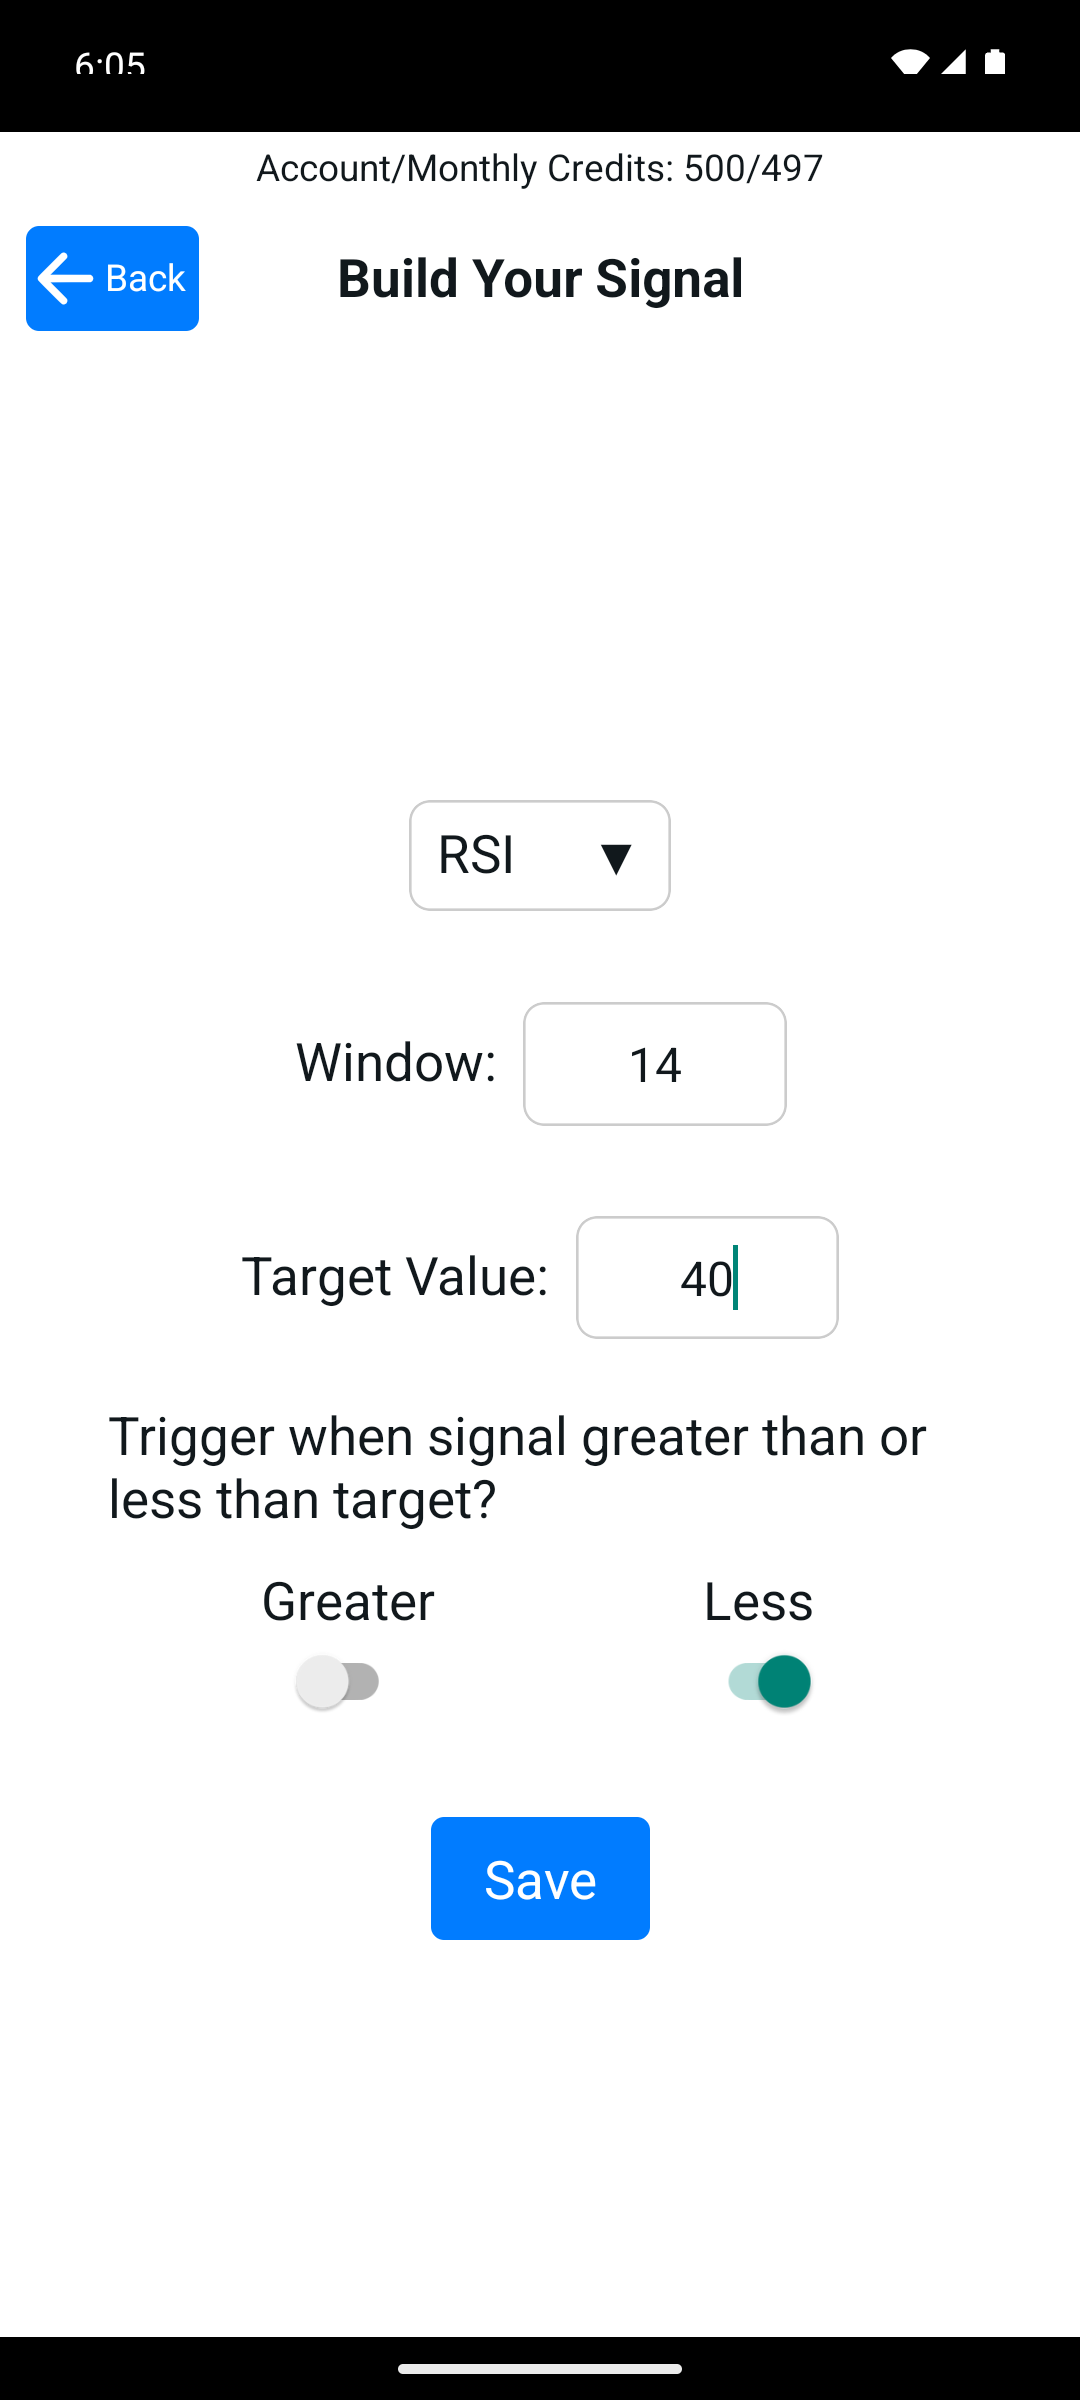
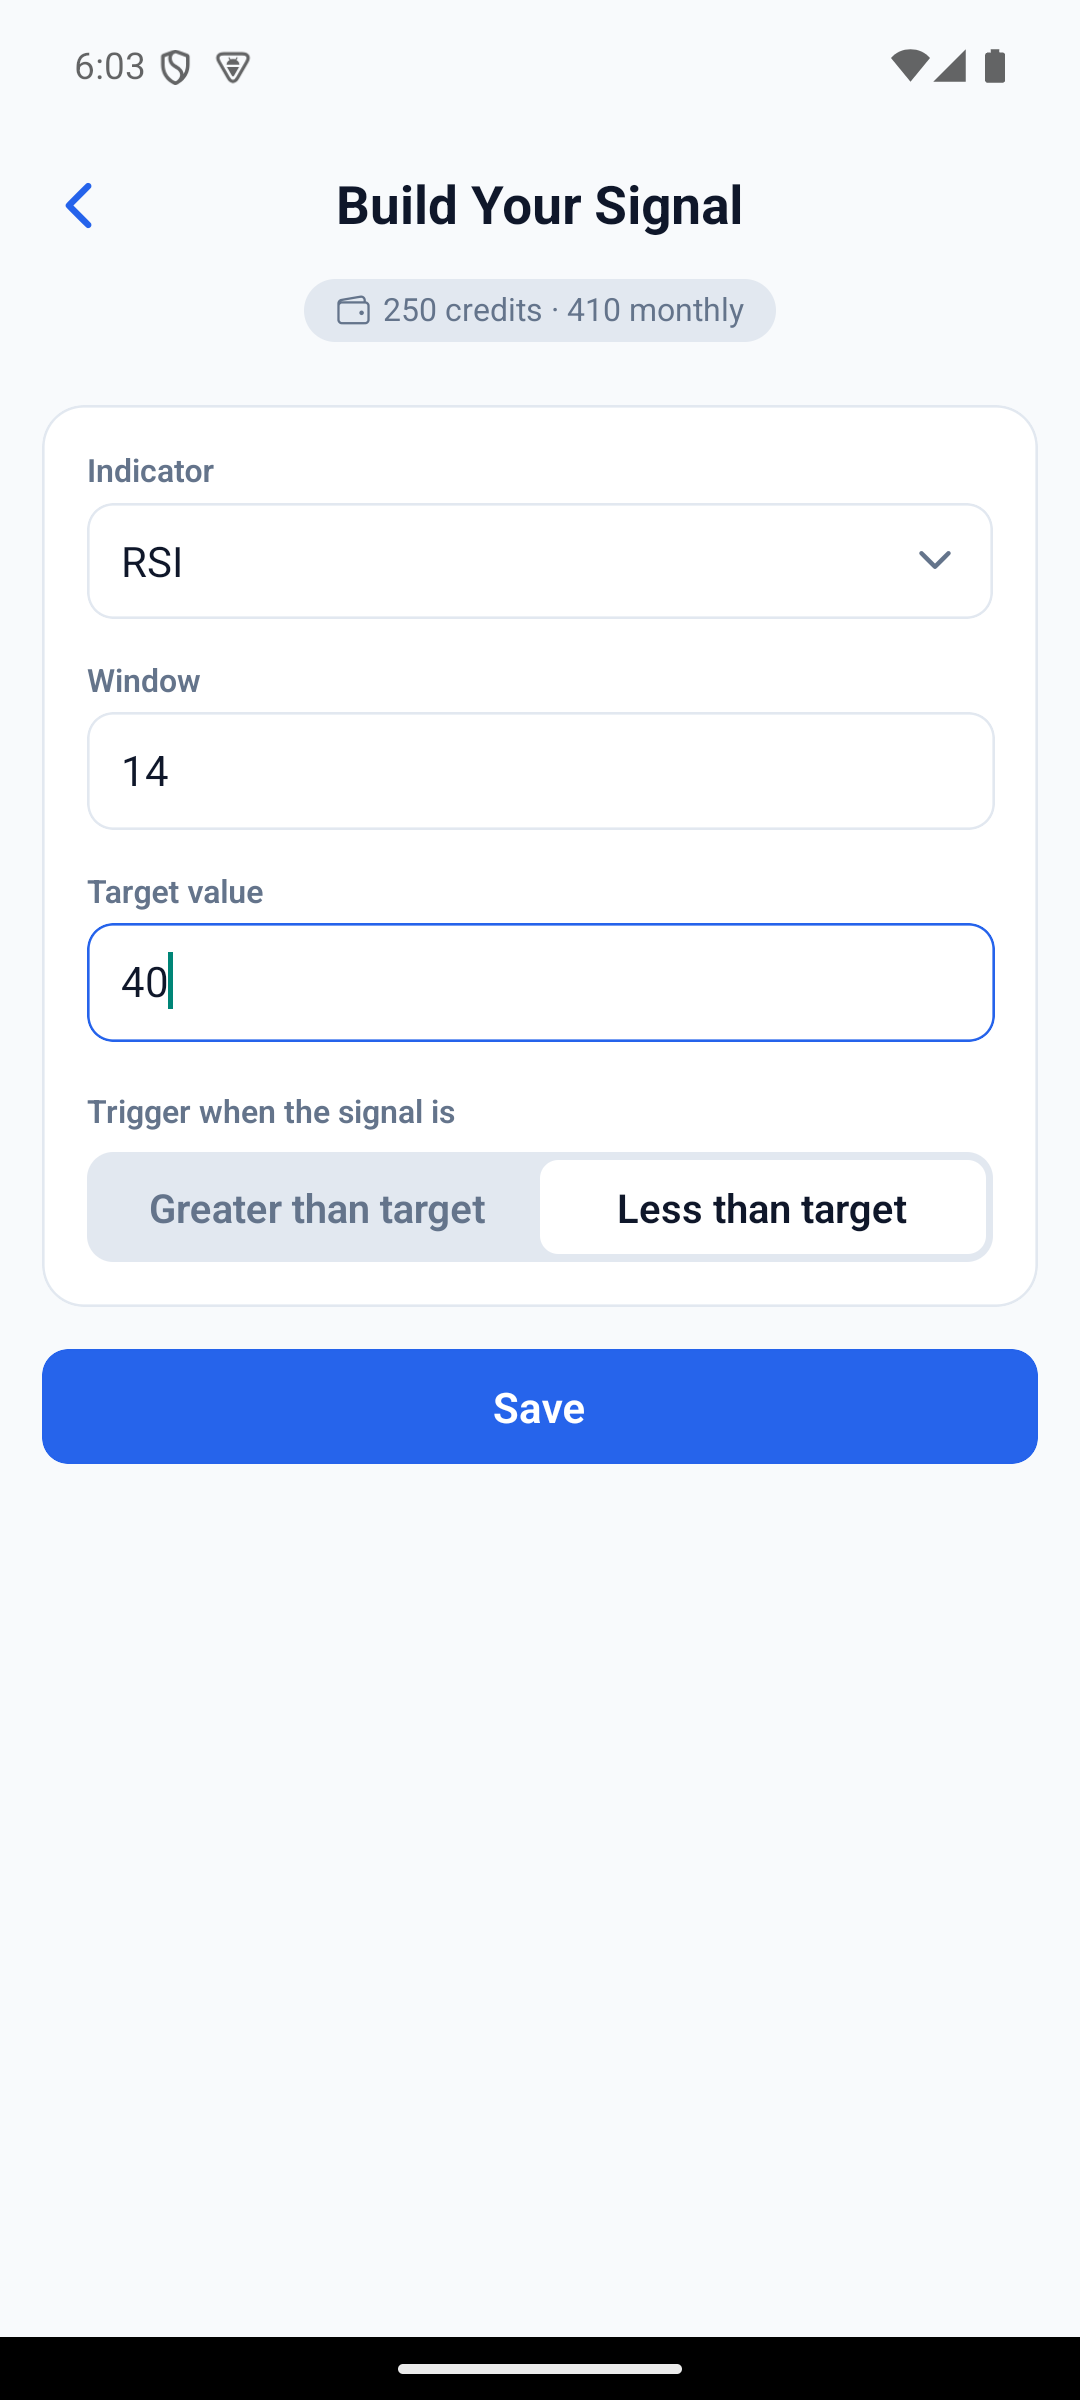
Update README screenshots and notes for the new UI
Retake all five screenshots on the Android emulator against a local backend
with a demo account and real historical prices, and update the alt text. Add
a note on the shared theme and components.

diff --git a/README.md b/README.md
@@ -2,7 +2,7 @@
 
 Mobile app for building simple technical-indicator trading strategies, back-testing them on historical price data, and subscribing to a strategy so you get a push notification when it signals a trade. Built with Expo / React Native; the API lives in [AlgoTrackerBackend](https://github.com/bsav0016/AlgoTrackerBackend).
 
-<p><img src="docs/screenshots/home.png" alt="Home screen: credits, shortcuts and the list of subscribed strategies with position and return" width="24%"> <img src="docs/screenshots/strategy-builder.png" alt="Building a strategy: symbol, candle interval, buy and sell signals and a date range" width="24%"> <img src="docs/screenshots/backtest-results.png" alt="Backtest results: price chart with buy and sell markers, and return, Sharpe and Sortino ratios" width="24%"> <img src="docs/screenshots/strategy-detail.png" alt="A subscribed strategy: strategy return against asset return, and its trades" width="24%"></p>
+<p><img src="docs/screenshots/home.png" alt="Home screen: credits, backtest and subscribe actions, and a card per subscribed strategy with its position and return" width="24%"> <img src="docs/screenshots/strategy-builder.png" alt="Building a strategy: symbol, candle interval, buy and sell signals, a date range and the cost of running it" width="24%"> <img src="docs/screenshots/backtest-results.png" alt="Backtest results: price chart with buy and sell markers, and return, Sharpe and Sortino ratios" width="24%"> <img src="docs/screenshots/strategy-detail.png" alt="A subscribed strategy: strategy return against asset return, next charge date and its trades" width="24%"></p>
 
 *Screenshots are from the Android build running against a local copy of the backend with a demo account and real historical prices. The positions, returns and trades on the home and strategy screens are each strategy's one-year backtest result, not live signals. More in [docs/screenshots](docs/screenshots) (for example the [signal builder](docs/screenshots/signal-builder.png)).*
 
@@ -78,6 +78,7 @@ The tests cover environment resolution (`config/resolveConfig.test.js`) and API 
 - **Backtesting on the server.** Pricing data, indicators and metrics are computed by the backend (pandas); the app only configures strategies and renders results.
 - **Credits instead of subscriptions-per-feature.** Usage costs come from the backend (`backtestBaseCost`, `backtestIterations`), so pricing can change without an app release.
 - **Two payment paths.** Stripe for card payments and RevenueCat for store purchases, both crediting the same account balance.
+- **One small design system.** Colors (light and dark), spacing, radii and type sizes live in `constants/Colors.ts` and `constants/Theme.ts`; shared pieces (`Card`, `Badge`, `TextField`, `SelectField`, `SegmentedControl`, `GeneralButton`) live in `components/`. Screens use those instead of hard-coded styles.
 - **Config chosen by EAS build profile**, so the production build uses the production API and live Stripe key without code changes.
 
 ## Limitations
